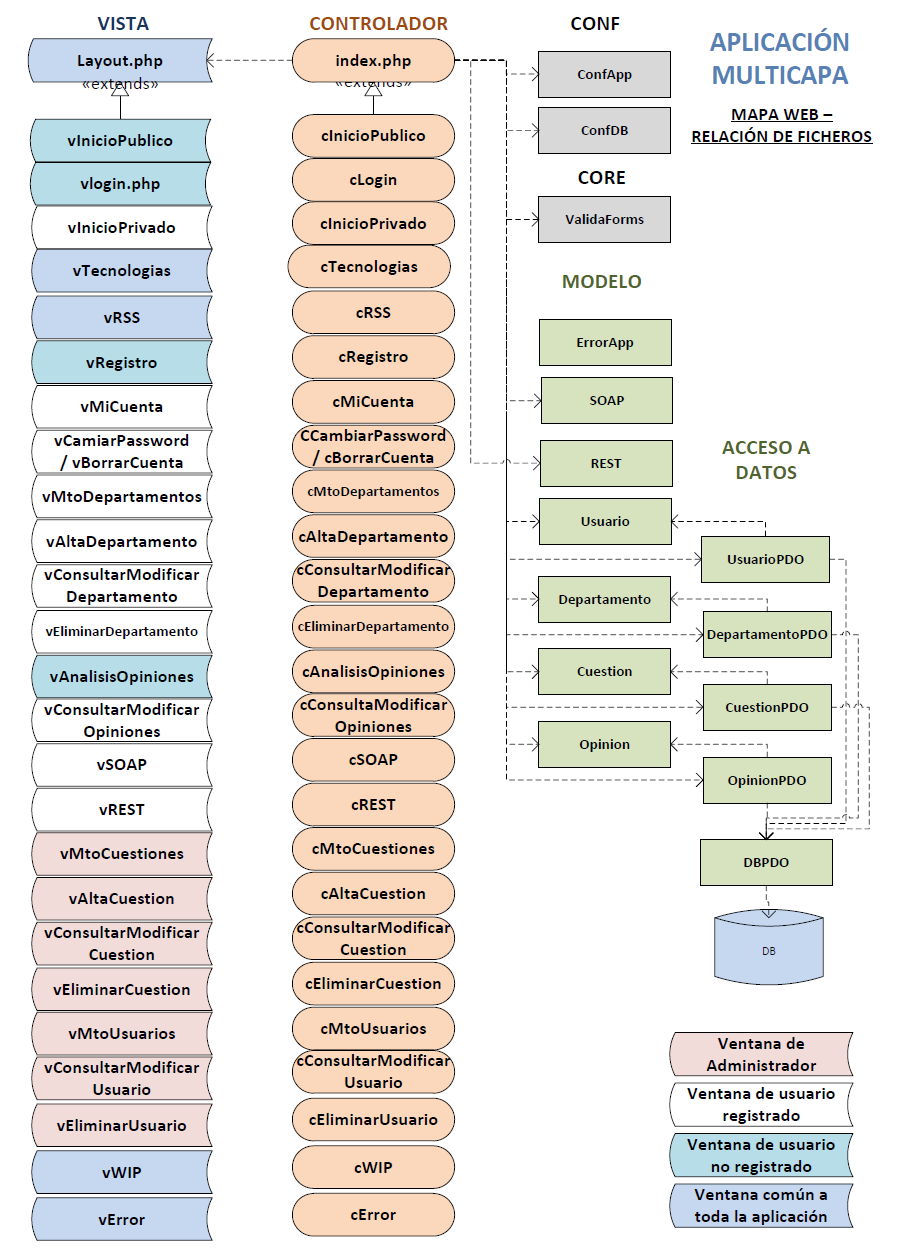
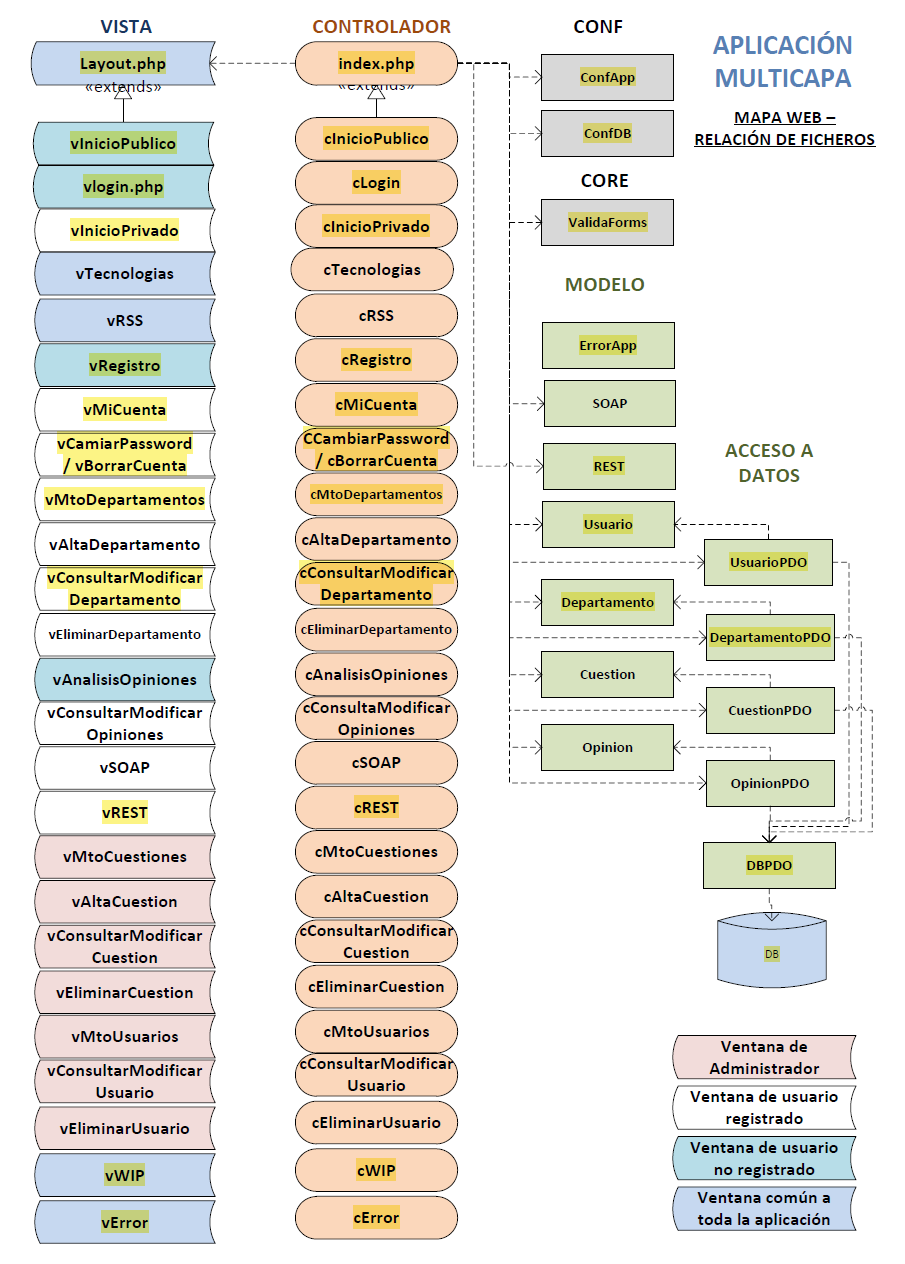
add: fotos en el inicio Público

diff --git a/webroot/css/estilosLogin.css b/webroot/css/estilosLogin.css
@@ -479,13 +479,13 @@ main {
 
 .carrusel-slides {
     display: flex;
-    width: 500%;  
+    width: 700%; 
     height: 100%;
     transition: transform 0.6s cubic-bezier(0.25, 1, 0.5, 1);
 }
 
 .slide-item {
-    width: 20%;
+    width: 14.2857%;
     height: 100%;
     position: relative;
     background-color: #ffffff;
@@ -515,10 +515,12 @@ main {
 }
 
 #slide1:checked ~ .carrusel-slides { transform: translateX(0%); }
-#slide2:checked ~ .carrusel-slides { transform: translateX(-20%); }
-#slide3:checked ~ .carrusel-slides { transform: translateX(-40%); }
-#slide4:checked ~ .carrusel-slides { transform: translateX(-60%); }
-#slide5:checked ~ .carrusel-slides { transform: translateX(-80%); }
+#slide2:checked ~ .carrusel-slides { transform: translateX(-14.2857%); }
+#slide3:checked ~ .carrusel-slides { transform: translateX(-28.5714%); }
+#slide4:checked ~ .carrusel-slides { transform: translateX(-42.8571%); }
+#slide5:checked ~ .carrusel-slides { transform: translateX(-57.1428%); }
+#slide6:checked ~ .carrusel-slides { transform: translateX(-71.4285%); }
+#slide7:checked ~ .carrusel-slides { transform: translateX(-85.7142%); }
 
 .carrusel-nav {
     position: absolute;
@@ -552,7 +554,9 @@ main {
 #slide2:checked ~ .carrusel-nav label[for="slide2"],
 #slide3:checked ~ .carrusel-nav label[for="slide3"],
 #slide4:checked ~ .carrusel-nav label[for="slide4"],
-#slide5:checked ~ .carrusel-nav label[for="slide5"] {
+#slide5:checked ~ .carrusel-nav label[for="slide5"],
+#slide6:checked ~ .carrusel-nav label[for="slide6"],
+#slide7:checked ~ .carrusel-nav label[for="slide7"] {
     background-color: var(--ms-blue);
     border-color: var(--ms-blue);
     transform: scale(1.2);
@@ -578,7 +582,9 @@ main {
 #slide2:checked ~ .capa-flechas #flechas2,
 #slide3:checked ~ .capa-flechas #flechas3,
 #slide4:checked ~ .capa-flechas #flechas4,
-#slide5:checked ~ .capa-flechas #flechas5 {
+#slide5:checked ~ .capa-flechas #flechas5,
+#slide6:checked ~ .capa-flechas #flechas6,
+#slide7:checked ~ .capa-flechas #flechas7 {
     display: flex;
     justify-content: space-between;
 }

diff --git a/view/vInicioPublico.php b/view/vInicioPublico.php
@@ -1,10 +1,3 @@
-<?php
-/**
- * @author: Enrique Nieto Lorenzo
- * @since: 18/01/2026
- * @description: Vista de Inicio Público con Carrusel de Diagramas.
- */
-?>
 <main>
     <div class="intro-inicio text-center">
         <h2 class="titulo-grande-ms">Documentación técnica y diagramas de la arquitectura</h2>
@@ -16,6 +9,8 @@
         <input type="radio" name="slider" id="slide3">
         <input type="radio" name="slider" id="slide4">
         <input type="radio" name="slider" id="slide5">
+        <input type="radio" name="slider" id="slide6">
+        <input type="radio" name="slider" id="slide7">
 
         <div class="carrusel-slides">
             <div class="slide-item">
@@ -31,19 +26,27 @@
                 <div class="etiqueta-diagrama">Diagrama de Clases</div>
             </div>
             <div class="slide-item">
-                <a href="#img4" class="enlace-zoom"><img src="webroot/images/ModeloFisico.png" alt="Físico"></a>
-                <div class="etiqueta-diagrama">Modelo Físico</div>
+                <a href="#img4" class="enlace-zoom"><img src="webroot/images/CasosDeUso.png" alt="Físico"></a>
+                <div class="etiqueta-diagrama">Casos de Uso</div>
             </div>
             <div class="slide-item">
                 <a href="#img5" class="enlace-zoom"><img src="webroot/images/UsoSession.png" alt="Sesión"></a>
                 <div class="etiqueta-diagrama">Estructura de Sesión</div>
             </div>
+
+            <div class="slide-item">
+                <a href="#img4" class="enlace-zoom"><img src="webroot/images/ModeloFisico.png" alt="Físico"></a>
+                <div class="etiqueta-diagrama">Modelo Físico</div>
+            </div>
+            <div class="slide-item">
+                <a href="#img7" class="enlace-zoom"><img src="webroot/images/CatalogoRequisitos.png" alt="Img 7"></a>
+                <div class="etiqueta-diagrama">Catálogo de Requisitos</div>
+            </div>
         </div>
 
         <div class="capa-flechas">
             <div class="flechas-grupo" id="flechas1">
-                <label for="slide5" class="flecha prev">&#10094;</label>
-                <label for="slide2" class="flecha next">&#10095;</label>
+                <label for="slide7" class="flecha prev">&#10094;</label> <label for="slide2" class="flecha next">&#10095;</label>
             </div>
             <div class="flechas-grupo" id="flechas2">
                 <label for="slide1" class="flecha prev">&#10094;</label>
@@ -59,8 +62,14 @@
             </div>
             <div class="flechas-grupo" id="flechas5">
                 <label for="slide4" class="flecha prev">&#10094;</label>
-                <label for="slide1" class="flecha next">&#10095;</label>
+                <label for="slide6" class="flecha next">&#10095;</label> </div>
+            <div class="flechas-grupo" id="flechas6">
+                <label for="slide5" class="flecha prev">&#10094;</label>
+                <label for="slide7" class="flecha next">&#10095;</label>
             </div>
+            <div class="flechas-grupo" id="flechas7">
+                <label for="slide6" class="flecha prev">&#10094;</label>
+                <label for="slide1" class="flecha next">&#10095;</label> </div>
         </div>
 
         <div class="carrusel-nav">
@@ -69,6 +78,8 @@
             <label for="slide3" class="nav-dot"></label>
             <label for="slide4" class="nav-dot"></label>
             <label for="slide5" class="nav-dot"></label>
+            <label for="slide6" class="nav-dot"></label>
+            <label for="slide7" class="nav-dot"></label>
         </div>
     </div>
 
@@ -77,4 +88,7 @@
     <div id="img3" class="lightbox"><a href="#_" class="lb-close"></a><img src="webroot/images/DiagramaDeClases.png"></div>
     <div id="img4" class="lightbox"><a href="#_" class="lb-close"></a><img src="webroot/images/ModeloFisico.png"></div>
     <div id="img5" class="lightbox"><a href="#_" class="lb-close"></a><img src="webroot/images/UsoSession.png"></div>
+    
+    <div id="img6" class="lightbox"><a href="#_" class="lb-close"></a><img src="webroot/images/TU_IMAGEN_6.png"></div>
+    <div id="img7" class="lightbox"><a href="#_" class="lb-close"></a><img src="webroot/images/TU_IMAGEN_7.png"></div>
 </main>
